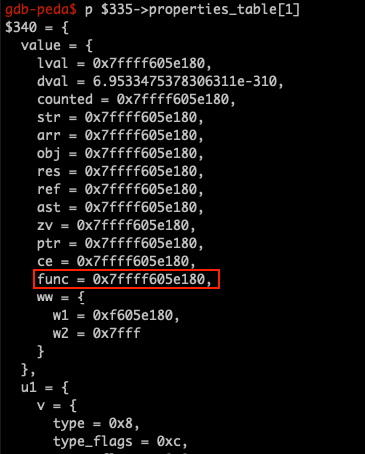
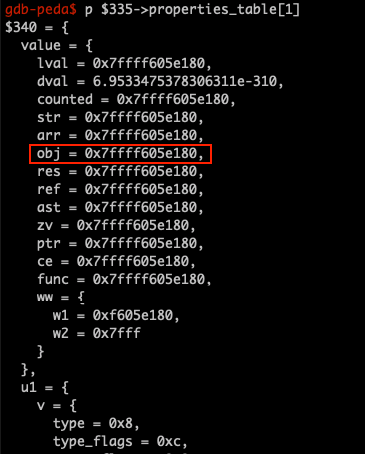
init
wrong version / mixup(fixed)

Changed region(s): [[0.0603, 0.3084, 0.6027, 0.37], [0.0904, 0.5859, 0.6027, 0.6476]]

diff --git a/0x08 [bug #76047] Bypassing disable_functions/exploit.php b/0x08 [bug #76047] Bypassing disable_functions/exploit.php
@@ -211,7 +211,7 @@ function pwn($cmd) {
     }
 
     # fake closure object
-    $closure_obj = str2ptr($abc, 0x20); # leaking the address of the zend_function we stored in $helper->b in line 174
+    $closure_obj = str2ptr($abc, 0x20); # leaking the address of the zend_closure we stored in $helper->b in line 174
     $fake_obj_offset = 0xd0; # this offset will make us land after the $helper object but also not too far to break things & crash
     for($i = 0; $i < 0x110; $i += 8) { # creating a copy of $helper->b at offset 0xd0
         write($abc, $fake_obj_offset + $i, leak($closure_obj, $i));

diff --git a/0x08 [bug #76047] Bypassing disable_functions/README.md b/0x08 [bug #76047] Bypassing disable_functions/README.md
@@ -1,4 +1,4 @@
-# Bug #76047 - breaking ``disabled_functions``
+# Bug #76047 - Bypassing ``disabled_functions``
 
 >The exploit we'll talk about in this chapter is intended for **post-exploitation**. You'll use it cases where you have a File Upload vulnerability but the target PHP environment is hardened and you cannot execute dangerous functions such as ``system()``, ``passthru()``, ``exec()`` etc. 
 >
@@ -323,7 +323,7 @@ function write(&$str, $p, $v, $n = 8) {
 }
 ```
 
-In the next lines of the exploit([187-188](exploit.php#L187)), the author uses the  ``write()`` function to write the values ``2`` and ``6`` at specific offsets (``0x60`` and ``0x70``):
+In the next lines of the exploit([187-188](exploit.php#L187-L188)), the author uses the  ``write()`` function to write the values ``2`` and ``6`` at specific offsets (``0x60`` and ``0x70``):
 ```php
 write($abc, 0x60, 2);
 write($abc, 0x70, 6);
@@ -382,7 +382,7 @@ In other words: If we make ``$helper->a`` to point to the value in ``$addr``, wh
 
 This is why in line 3 he subtracted 0x10, which is 16 in decimal. He wanted that ``zend_string.len`` will land exactly at the value that ``strlen()`` returns)
 
-Example of a leak (Lines [195-196](exploit.php#L195) in the exploit):
+Example of a leak (Lines [195-196](exploit.php#L195-L196) in the exploit):
 
 The variable ``$closure_handlers`` contains the hex value ``0xef6dc0``:
 
@@ -474,7 +474,7 @@ if(!($zif_system = get_system($basic_funcs))) {
 
 All of the functions above (from ``get_binary_base()`` to ``get_system()`` at the end of the snippet) are not doing anything special. They are all just wrappers of ``leak()`` (which we already explained). Here's a short description of what they're doing:
 
-1. ``$base = get_binary_base($binary_leak)``: returns the binary base address by calling ``leak($binary_leak)`` over and over again in a loop until it hits the *ELF header* (if ``$leak == 0x10102464c457f`` is true then it returns the address)
+1. ``$base = get_binary_base($binary_leak)``: returns the binary base address by calling ``leak()`` over and over again in a loop until it hits the *ELF header* (if ``$leak == 0x10102464c457f`` is true then it returns the address)
 2. ``$elf = parse_elf($base)``: Returns an array with useful sizes and addresses of different segments in the memory ( ``return [$data_addr, $text_size, $data_size];`` ) 
 3. ``$basic_funcs = get_basic_funcs($base, $elf)``: Using the 2 previous values we leaked (above), we are retrieving the address of PHP's *basic functions*.
 
@@ -490,9 +490,9 @@ The ``functions`` property(in red) is our *basic funcs*. It contains internal PH
 
 ## Creating a Fake Closure Object
 
->**Reminder**: In the beginning of the exploit, we set ``$helper->b = function ($x) { }; ``. This is just an empty anonymous function (or, **[*closure*](https://www.php.net/manual/en/functions.anonymous.php) object in "Zend land"**) that accepts one argument and basically doing nothing. It's useless right now but soon we will turn it into ``system`` 🔫
+>**Reminder**: In the beginning of the exploit, we set ``$helper->b = function ($x) { }; ``. This is just an empty anonymous function (or, **[*closure*](https://www.php.net/manual/en/functions.anonymous.php) object in "[Zend land](https://github.com/php/php-src/blob/PHP-7.1.0/Zend/zend_closures.c#L40-L46)**") that accepts one argument and basically doing nothing. It's useless right now but soon we will turn it into ``system`` 🔫
 
-To call PHP's ``system()``, we are going to create a fake *closure object* in memory (Lines [214-218](./exploit.php#L214)):
+To call PHP's ``system()``, we are going to create a fake *closure object* in memory (Lines [214-218](./exploit.php#L214-L218)):
 
 ```php
 $closure_obj = str2ptr($abc, 0x20);
@@ -502,21 +502,21 @@ for($i = 0; $i < 0x110; $i += 8) {
     write($abc, $fake_obj_offset + $i, leak($closure_obj, $i));
 }
 ```
-This part is devided into 2 steps:
+This part is divided into 2 steps:
 
-1. ``$closure_obj = str2ptr($abc, 0x20);``: we are retrieving the address of the ``zend_function`` which ``$helper->b`` points to. In the screenshot below you can see that we're printing the zval of ``$helper->b`` and getting the address of our anonymous ``zend_function`` using ``zval.value.func``:
+1. ``$closure_obj = str2ptr($abc, 0x20);``: we are retrieving the address of the ``zend_closure`` which ``$helper->b`` points to. In the screenshot below you can see that we're printing the zval of ``$helper->b`` and getting the address of our anonymous function(or, closure object) using ``zval.value.obj``:
 
 ![screenshot1](./res/properties_table.png)
 
-2. ``for($i = 0; $i < 0x110; $i += 8) { ... } ``: in this part, we're using ``leak()`` and ``write()`` to copy the contents of our leaked ``$closure_obj`` pointer. We are copying it to be somewhere after the ``$helper`` object:
+2. ``for($i = 0; $i < 0x110; $i += 8) { ... } ``: in this loop, we're using ``leak()`` and ``write()`` to **copy** the contents of our leaked ``$closure_obj`` pointer. We are copying it to be somewhere after the ``$helper`` object in the memory:
 
 ![screenshot1](./res/fake_obj_land_here.png)
 
-In yellow: we can see ``$helper->c`` (0x1337) and we can also see the last property of the object, ``$helper->d`` (0x1338)
+In yellow: we can see ``$helper->c`` (0x1337) and we can also see the last property of the PHP object, ``$helper->d`` (0x1338)
 
-In red: This is where our new copy will land(at offset ``0xd0``), outside of the $helper obj
+In red: This is where our new copy will land(at offset ``0xd0``), outside of the $helper PHP object.
 
-After having a fresh copy of an anonymous function in memory, we'll start manipulating its metadata (Lines [221-225](./exploit.php#L221)): 
+After having a fresh copy of an anonymous function in memory, we'll start manipulating its metadata (Lines [221-225](./exploit.php#L221-L225)): 
 
 ```php
 write($abc, 0x20, $abc_addr + $fake_obj_offset);
@@ -524,22 +524,24 @@ write($abc, 0xd0 + 0x38, 1, 4); # internal func type
 write($abc, 0xd0 + 0x68, $zif_system); # internal func handler
 ```
 
-1. In the 1st line: we rewrite the ``zval.value`` of ``$helper->b``, we're making it to point to our malicious copy of ``zend_function`` at offset ``0xd0``.
-2. Line 2 and 3 are responsible for overwriting some of the metadata in the malicious ``zend_function``, you can see the overwrite below:
+1. In the 1st line: we rewrite the ``zval.value.obj`` of ``$helper->b``, we're making it to point to our malicious copy of ``zend_closure`` object at offset ``0xd0``.
+2. Lines 2 and 3 are responsible for overwriting some of the metadata in the malicious ``zend_closure`` object, you can see the overwrite below:
    
 ![screenshot1](./res/final_step.png)
 
 We can see from the diff that:
-* We overwrote a useful function pointer and set it to be ``zif_system`` (Line 37 in the diff)
-* We overwrote the ``zend_function.oparray.last`` value to be ``0x1`` instead of ``0x2`` (Line 29 in the diff). But why? 1 or 2, what does it matter? It took me a while to understand but eventually I realized why the exploit author did it: The Zend Engine calls a function named ``destroy_op_array()`` which causes a crash. But if we set this value to be ``0x1``, we can make this function skip the crash:
+* We overwrote a useful function pointer and set it to be ``zif_system`` (Line 25 in the diff)
+* We overwrote the ``zend_closure.func.type`` value to be ``0x1`` instead of ``0x2`` (Line 7 in the diff). But why? 1 or 2, what does it matter? It took me a while to understand but eventually I realized why the exploit author did it: The Zend Engine calls a function named ``destroy_op_array()`` which causes a crash. But if we set this value to be ``0x1``, we can make skip the crash:
 
 ![screenshot1](./res/zend_closure_free_storage.png)
 
-By setting it to ``0x1``, the ``if()`` statement in line 445(in the snippet above) will not be true and ``destroy_op_array()`` will not be called because PHP thinks it's an internal function and not a user-defined function. #profit
+By setting it to ``0x1``, the ``if()`` statement in line 445(in the snippet above) will not be true and ``destroy_op_array()`` will not be called. #profit 
+
+After looking at the macro from the snippet above(``#define ZEND_USER_FUNCTION 2``), I also realized that the exploit author set it to 0x1 and not 0x2 to make the Zend engine think that it's an internal function and not a user-defined function. 
 
 ## Pwn 🔫
 
-Now that we have our malicious ``zend_function`` set in ``$helper->b``, all we need is to call it in a way that will trigger the ``try_catch_array`` function pointer:
+Now that we have our malicious ``zend_closure`` all-set inside ``$helper->b``, all we need is to call it in a way that will trigger the ``zend_closure.func.internal_function.handler`` function pointer:
 
 ```php
 ($helper->b)('cat /etc/passwd');
@@ -576,10 +578,10 @@ for($i = 0; $i < $n_alloc; $i++)
     $contiguous[] = str_shuffle(str_repeat('A', 79));
 ```
 
-I personally had 99% success rate with this spraying so...it should not worry you. Try it yourself :D
+I personally had 99% success rate with this spraying so...crashes should not worry you. Try it yourself :D
 
 ## More info: 
-* Black Hat USA Conference(2010) - Stefan Esser - Code Reuse/Return Oriented Programming in PHP Application Exploits (this one is pretty old but it's worth watching)
+* Black Hat USA Conference(2010) - Stefan Esser - Code Reuse/Return Oriented Programming in PHP Application Exploits (**this one is pretty old but it's worth watching**)
     - Part 1/5: https://www.youtube.com/watch?v=c0ZCe311YW8
     - Part 2/5: https://www.youtube.com/watch?v=XP6KpKhDlg0
     - Part 3/5: https://www.youtube.com/watch?v=rF9UK4dxtBs
